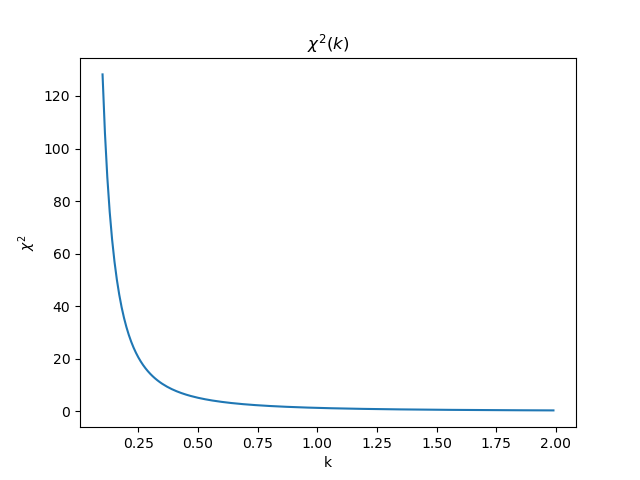
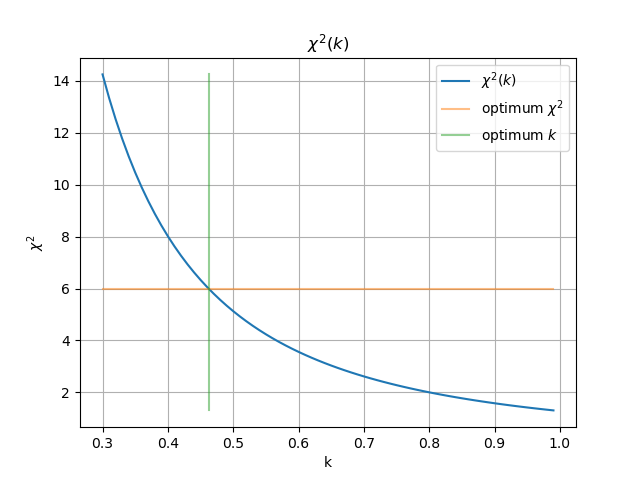
Assignment 3 optimum k for chi^2

diff --git a/03/03_03-04-05 _chi_of_k.py b/03/03_03-04-05 _chi_of_k.py
@@ -35,7 +35,7 @@ inputfile.close()
 chi2k = []
 kk = []
 
-for k in np.arange(start=0.1, stop=2., step=0.01):
+for k in np.arange(start=0.3, stop=1.0, step=0.01):
     #print(k, end="")
 
     m = 0
@@ -71,9 +71,13 @@ chi2k=np.array(chi2k)
 print(kk.shape)
 print(chi2k.shape)
 
-plot(kk, chi2k)
+plot(kk, chi2k, label= r'$\chi^2(k)$')
+plot(kk, np.linspace(6.0, 6.0, num=kk.shape[0]), alpha=0.5, label=r'optimum $\chi^2$')
+plot(np.linspace(.463, .463, num=chi2k.shape[0]), chi2k, alpha=0.5, label=r'optimum $k$')
 title(r'$\chi^2(k)$')
 ylabel( r'$\chi^2$')
 xlabel( 'k')
+plt.grid(b=True, which='both')
+legend(loc="upper right")
 savefig('03_chi_of_k.png')
 show()
